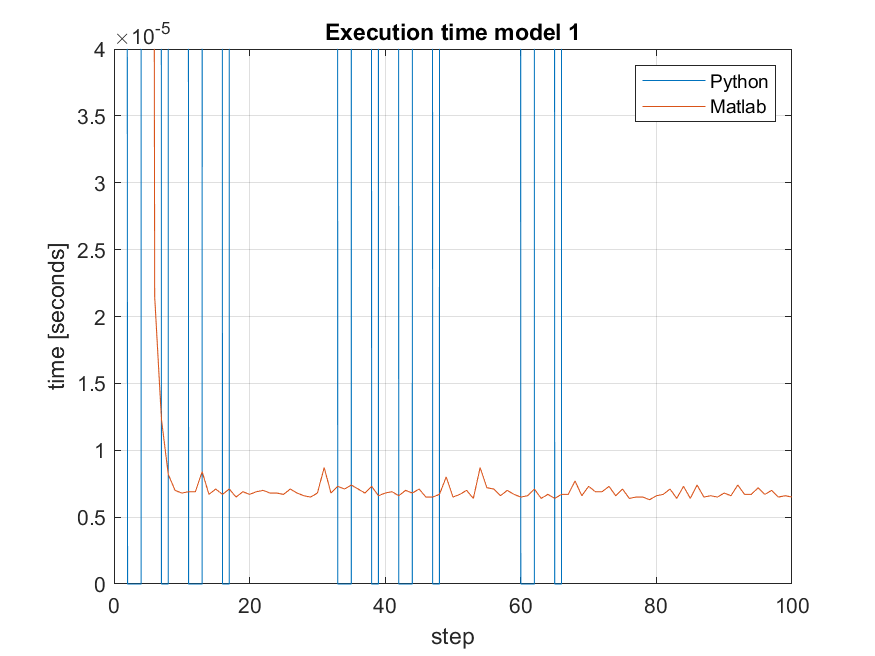
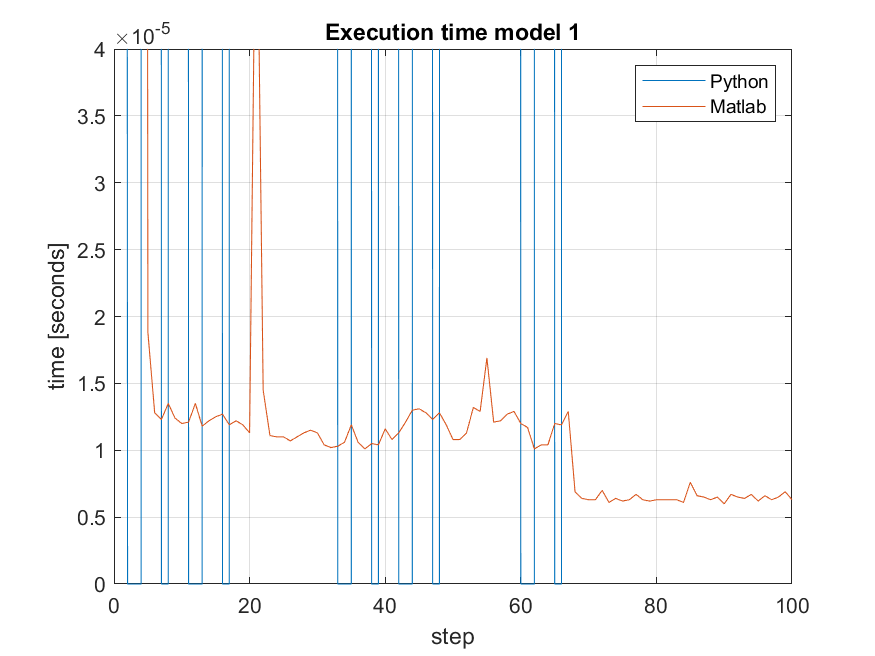
commit tuesday

diff --git a/PythonCode/MPC_run.py b/PythonCode/MPC_run.py
@@ -109,7 +109,7 @@ for i in range(tend):
 
             #Qmat1i = np.subtract(Qmat0i, vAd@np.matrix(Qmat0i[iz,:]))
             o=vAd@np.matrix(Qmat0i[iz,:])
-            Qmat1i = np.subtract(Qmat0i, -vAd@np.matrix(Qmat0i[iz,:]))
+            Qmat1i = np.subtract(Qmat0i, vAd@np.matrix(Qmat0i[iz,:]))
             #Qmat1i = Qmat0i-vAd@np.matrix(Qmat0i[iz,:])
             Qmat0i = Qmat1i
 

diff --git a/Matlab_kode/MPClambda2sbry_t_run.m b/Matlab_kode/MPClambda2sbry_t_run.m
@@ -132,7 +132,7 @@ for ik = 1:tend
  
                 %noe som ikke er nødvendig, ikke forstå
                 if ((abs(qdiv) < 1e-13) | (abs(qdiv) > 1e12))
-                    toctosave2
+                    toc
                 %Will only enter here (some times) when adding a new constraint    
                 % Heuristically seems like a reliable test for infeasibility
 

diff --git a/PythonCode/MPC_setup.py b/PythonCode/MPC_setup.py
@@ -9,7 +9,7 @@ def deb(A):
     print("dimention:")
     print(A.shape)
 
-MODEL = 1
+MODEL = 2
 
 
 
